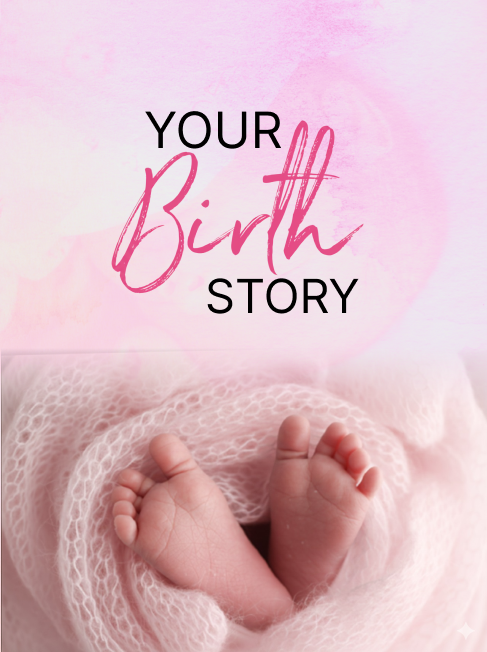
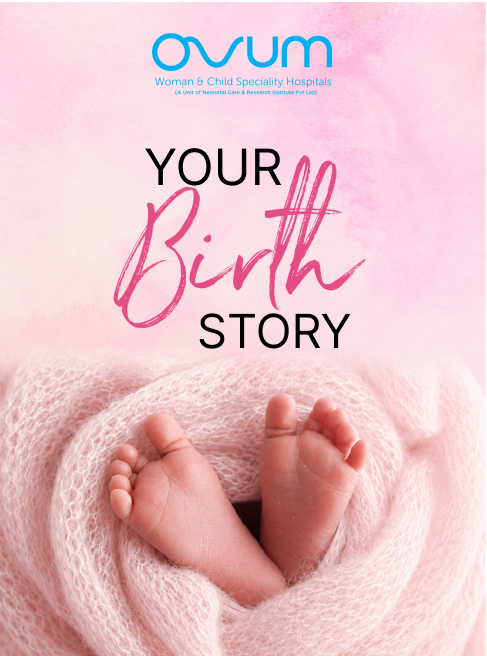
updated pdf priveiw image page

diff --git a/app/pdf-preview/page.tsx b/app/pdf-preview/page.tsx
@@ -26,14 +26,18 @@ export default function PdfPreviewPage() {
       </header>
 
       <div className="py-8 px-4 print:p-0 print:py-0 flex flex-col gap-8 print:gap-0 print-container">
-        {/* Spread 1 — Cover and Stats (A4 Landscape) */}
-        <div className="w-full max-w-[297mm] mx-auto rounded-2xl overflow-hidden shadow-lg print:shadow-none print:rounded-none print-page">
-          <PageInside form={form} accentHex={accentHex} />
+        {/* Spread 1 */}
+        <div className="pdf-scale-wrapper">
+          <div className="pdf-page-landscape rounded-2xl overflow-hidden shadow-lg print:shadow-none print:rounded-none print-page">
+            <PageInside form={form} accentHex={accentHex} />
+          </div>
         </div>
 
-        {/* Spread 2 — Photo and Story text (A4 Landscape) */}
-        <div className="w-full max-w-[297mm] mx-auto rounded-2xl overflow-hidden shadow-lg print:shadow-none print:rounded-none print-page">
-          <PageStory form={form} accentHex={accentHex} storyImage={babyImage} />
+        {/* Spread 2 */}
+        <div className="pdf-scale-wrapper">
+          <div className="pdf-page-landscape rounded-2xl overflow-hidden shadow-lg print:shadow-none print:rounded-none print-page">
+            <PageStory form={form} accentHex={accentHex} storyImage={babyImage} />
+          </div>
         </div>
       </div>
     </div>
@@ -63,7 +67,7 @@ function PageInside({ form, accentHex }: { form: StoryForm; accentHex: string })
       >
         {/* Moments Card */}
         <div
-          className="mt-16 w-[52%] rounded-[18px] border border-white/70 px-6 py-6"
+  className="mt-0 w-[44%] min-h-[420px] rounded-[16px] border border-white/80 px-6 py-7"
           style={{
             background: isFemale
               ? "rgba(252,222,236,0.88)"
@@ -133,23 +137,21 @@ function PageInside({ form, accentHex }: { form: StoryForm; accentHex: string })
 
         {/* Logo Below Card */}
         <div className="mt-12 flex flex-col items-center">
-          <div className="relative w-[170px] h-[48px]">
+          <div className="relative w-[190px] h-[60px]">
             <Image src="/logo.png" alt="Ovum" fill className="object-contain" />
           </div>
 
-          <p className="text-[10px] font-medium mt-1" style={{ color: accentHex }}>
-            Woman &amp; Child Speciality Hospital
-          </p>
+          
 
-          <p className="text-[7px] text-gray-500">
-            (A Unit of Neonatal Care &amp; Research Institute Pvt Ltd)
-          </p>
+          
         </div>
 
         {/* Bottom Strip */}
         <div
-          className="absolute bottom-0 left-0 right-0 h-[20px]"
-          style={{ backgroundColor: accentHex }}
+          className="absolute bottom-0 left-0 right-0 h-[50px]"
+          style={{ backgroundColor: accentHex ,
+            bottom: "80px"
+          }}
         />
       </div>
 
@@ -166,45 +168,40 @@ function PageInside({ form, accentHex }: { form: StoryForm; accentHex: string })
   );
 }
 
-/* ─── Page 2: Story text page — Full A4 landscape layout ─── */
 function PageStory({ form, accentHex, storyImage }: { form: StoryForm; accentHex: string; storyImage: string | null }) {
+  const isFemale = form.gender === "female";
+  const headingColor = isFemale ? "#c0266b" : "#1f2937";
+
   return (
     <div
       className="relative overflow-hidden flex"
       style={{
         width: "297mm",
         height: "210mm",
-        background: accentHex === "#f472b6" ? "#f5c6e0" : "#d7eef0"
+        background: isFemale ? "#fdf2f8" : "#d7eef0"
       }}
     >
       {/* Left image section */}
-      <div className="relative flex items-center justify-center bg-white/30" style={{ width: "52%", height: "100%" }}>
+      <div className="relative" style={{ width: "50%", height: "100%" }}>
         {storyImage ? (
-          <Image
-            src={storyImage}
-            alt="Birth Story"
-            fill
-            priority
-            className="object-cover"
-            sizes="50vw"
-          />
+          <Image src={storyImage} alt="Birth Story" fill priority className="object-cover" sizes="50vw" />
         ) : (
-          <div className="flex flex-col items-center gap-3">
+          <div className="w-full h-full flex flex-col items-center justify-center" style={{ background: isFemale ? "#fce7f3" : "#d9f2f4" }}>
             <Image src="/icon.png" alt="No image" width={72} height={72} className="object-contain opacity-30" />
-            <p className="text-sm text-gray-400">No photo uploaded</p>
+            <p className="text-sm text-gray-400 mt-2">No photo uploaded</p>
           </div>
         )}
       </div>
 
       {/* Divider */}
-      <div className="w-[1.5px] bg-[#5e6b6b]/30 z-10" />
+      <div className="w-[1.5px] z-10" style={{ background: isFemale ? "#e8a8c6" : "#9bcfd5" }} />
 
       {/* Right story section */}
-      <div className="flex-1 px-8 py-6 overflow-hidden flex flex-col justify-center" style={{ background: accentHex === "#f472b6" ? "#f9d0e8" : "#c7e4e7" }}>
+      <div className="flex-1 px-8 py-6 overflow-hidden flex flex-col justify-center" style={{ background: isFemale ? "#f8d9ea" : "#c7e4e7" }}>
         <div className="space-y-4 text-[12.5px] leading-[1.35] text-[#111]">
 
           <div>
-            <h3 className="font-bold text-[13.5px] mb-0.5 text-gray-900">The First Cry</h3>
+            <h3 className="font-bold text-[13.5px] mb-0.5" style={{ color: headingColor }}>The First Cry</h3>
             <p>
               Your mother,{" "}
               <span className="font-semibold" style={{ color: accentHex }}>{form.motherName || "your mother"}</span>,
@@ -219,7 +216,7 @@ function PageStory({ form, accentHex, storyImage }: { form: StoryForm; accentHex
           </div>
 
           <div>
-            <h3 className="font-bold text-[13.5px] mb-0.5 text-gray-900">Welcomed With Love</h3>
+            <h3 className="font-bold text-[13.5px] mb-0.5" style={{ color: headingColor }}>Welcomed With Love</h3>
             <p>
               You were delivered at Ovum Hospitals,{" "}
               {form.hospital && <span className="font-semibold" style={{ color: accentHex }}>{form.hospital}</span>},
@@ -243,7 +240,7 @@ function PageStory({ form, accentHex, storyImage }: { form: StoryForm; accentHex
           </div>
 
           <div>
-            <h3 className="font-bold text-[13.5px] mb-0.5 text-gray-900">A Father&apos;s First Hold</h3>
+            <h3 className="font-bold text-[13.5px] mb-0.5" style={{ color: headingColor }}>A Father&apos;s First Hold</h3>
             <p>Wrapped gently in soft cloth, you were placed into your father&apos;s arms for the very first time.</p>
             {(form.grandmother || form.grandfather) && (
               <p className="mt-1">
@@ -258,7 +255,7 @@ function PageStory({ form, accentHex, storyImage }: { form: StoryForm; accentHex
 
           {form.roomType && (
             <div>
-              <h3 className="font-bold text-[13.5px] mb-0.5 text-gray-900">A Room Filled With Happiness</h3>
+              <h3 className="font-bold text-[13.5px] mb-0.5" style={{ color: headingColor }}>A Room Filled With Happiness</h3>
               <p>
                 To celebrate your arrival, you were welcomed into the{" "}
                 <span className="font-semibold" style={{ color: accentHex }}>{form.roomType}</span>{" "}
@@ -275,7 +272,7 @@ function PageStory({ form, accentHex, storyImage }: { form: StoryForm; accentHex
           )}
 
           <div>
-            <h3 className="font-bold text-[13.5px] mb-0.5 text-gray-900">With Love, From Ovum</h3>
+            <h3 className="font-bold text-[13.5px] mb-0.5" style={{ color: headingColor }}>With Love, From Ovum</h3>
             <p>Your birth brought immense happiness not only to your family, but to all of us at Ovum Hospitals.</p>
             <p className="mt-1">This keepsake is a celebration of the love, joy, and hope you brought into the world.</p>
             <p className="mt-1 font-semibold italic text-[12px] opacity-80">May your life always shine as brightly as the happiness you brought on your very first day.</p>

diff --git a/app/globals.css b/app/globals.css
@@ -81,3 +81,60 @@ body {
     margin: 0 !important;
   }
 }
+
+/* PDF preview responsive scaling */
+.pdf-scale-wrapper {
+  width: 100%;
+  display: flex;
+  justify-content: center;
+  overflow-x: hidden;
+}
+
+.pdf-page-landscape {
+  width: 297mm;
+  flex-shrink: 0;
+  transform-origin: top center;
+}
+
+/* 1440px — fits comfortably, slight scale for padding */
+@media (max-width: 1440px) {
+  .pdf-page-landscape {
+    transform: scale(0.92);
+    margin-bottom: calc((210mm * 0.92) - 210mm);
+  }
+}
+
+/* ~1200px */
+@media (max-width: 1200px) {
+  .pdf-page-landscape {
+    transform: scale(0.78);
+    margin-bottom: calc((210mm * 0.78) - 210mm);
+  }
+}
+
+/* ~900px */
+@media (max-width: 900px) {
+  .pdf-page-landscape {
+    transform: scale(0.58);
+    margin-bottom: calc((210mm * 0.58) - 210mm);
+  }
+}
+
+/* ~640px */
+@media (max-width: 640px) {
+  .pdf-page-landscape {
+    transform: scale(0.38);
+    margin-bottom: calc((210mm * 0.38) - 210mm);
+  }
+}
+
+@media print {
+  .pdf-scale-wrapper {
+    display: block;
+    overflow: visible;
+  }
+  .pdf-page-landscape {
+    transform: none !important;
+    margin-bottom: 0 !important;
+  }
+}
